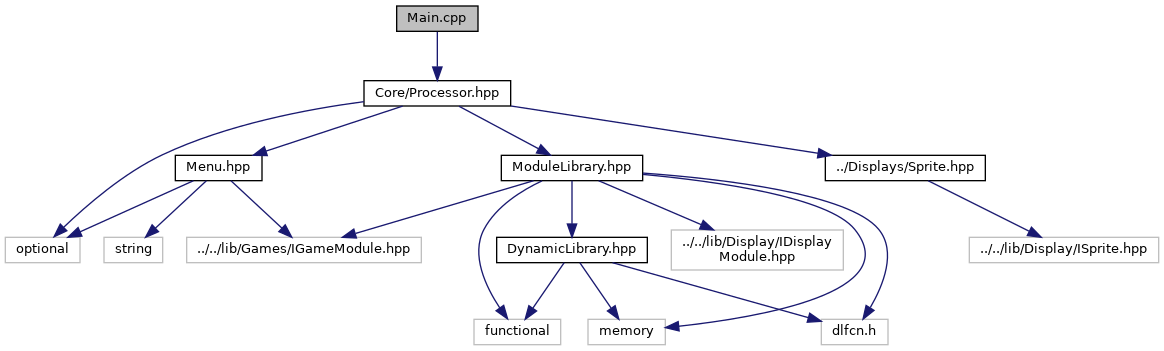
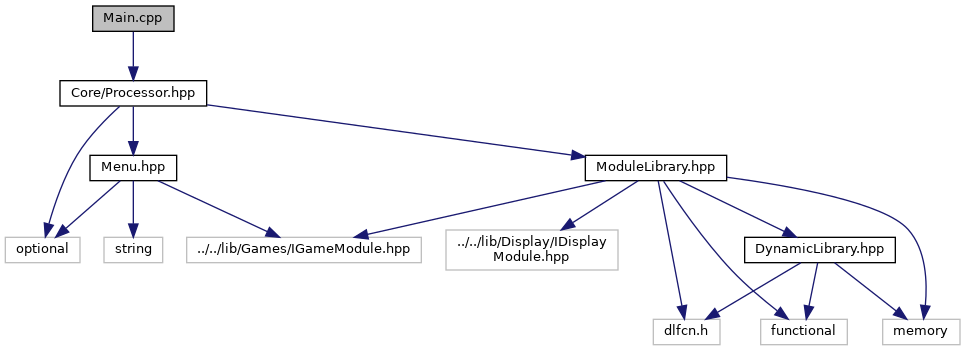
Deploying to gh-pages from @ ThibautHH/Arcade@c06aed20403938ba92cd419e3931bcefb9072a8d 🚀

diff --git a/docs/core/html/de/db1/Processor_8hpp_source.html b/docs/core/html/de/db1/Processor_8hpp_source.html
@@ -85,44 +85,42 @@ $(function() {
 <div class="line"><a name="l00011"></a><span class="lineno">   11</span>&#160;<span class="preprocessor">    #include &lt;optional&gt;</span></div>
 <div class="line"><a name="l00012"></a><span class="lineno">   12</span>&#160; </div>
 <div class="line"><a name="l00013"></a><span class="lineno">   13</span>&#160;<span class="preprocessor">    #include &quot;<a class="code" href="../../db/d31/ModuleLibrary_8hpp.html">ModuleLibrary.hpp</a>&quot;</span></div>
-<div class="line"><a name="l00014"></a><span class="lineno">   14</span>&#160;<span class="preprocessor">    #include &quot;../Displays/Sprite.hpp&quot;</span></div>
-<div class="line"><a name="l00015"></a><span class="lineno">   15</span>&#160;<span class="preprocessor">    #include &quot;<a class="code" href="../../dd/df6/Menu_8hpp.html">Menu.hpp</a>&quot;</span></div>
-<div class="line"><a name="l00016"></a><span class="lineno">   16</span>&#160; </div>
-<div class="line"><a name="l00017"></a><span class="lineno">   17</span>&#160;<span class="keyword">namespace </span><a class="code" href="../../d1/d7d/namespaceArcade_1_1Core.html">Arcade::Core</a> {</div>
-<div class="line"><a name="l00024"></a><span class="lineno"><a class="line" href="../../dd/d20/classArcade_1_1Core_1_1Processor.html">   24</a></span>&#160;    <span class="keyword">class </span><a class="code" href="../../dd/d20/classArcade_1_1Core_1_1Processor.html">Processor</a> {</div>
-<div class="line"><a name="l00025"></a><span class="lineno">   25</span>&#160;        <span class="keyword">public</span>:</div>
-<div class="line"><a name="l00031"></a><span class="lineno">   31</span>&#160;            <a class="code" href="../../dd/d20/classArcade_1_1Core_1_1Processor.html#a3c33c79849419e3fc251f6a17dbb6fd6">Processor</a>(<span class="keyword">const</span> <span class="keywordtype">char</span> *path);</div>
-<div class="line"><a name="l00032"></a><span class="lineno">   32</span>&#160; </div>
-<div class="line"><a name="l00036"></a><span class="lineno">   36</span>&#160;            <span class="keywordtype">void</span> <a class="code" href="../../dd/d20/classArcade_1_1Core_1_1Processor.html#a073f5e9ea6a3557c217d67ab392e5852">run</a>();</div>
-<div class="line"><a name="l00037"></a><span class="lineno">   37</span>&#160; </div>
-<div class="line"><a name="l00038"></a><span class="lineno">   38</span>&#160;        <span class="keyword">private</span>:</div>
-<div class="line"><a name="l00039"></a><span class="lineno">   39</span>&#160;            <span class="keyword">static</span> <a class="codeRef" href="https://en.cppreference.com/w/cpp/container/map.html">std::map&lt;Games::KeyType, int&gt;</a> translateInputs(<a class="codeRef" href="https://en.cppreference.com/w/cpp/container/map.html">std::map&lt;Displays::KeyType, int&gt;</a> inputs);</div>
-<div class="line"><a name="l00040"></a><span class="lineno">   40</span>&#160;            <span class="keyword">static</span> Displays::Vector2i translateVector(Games::Vector2i inputs);</div>
-<div class="line"><a name="l00041"></a><span class="lineno">   41</span>&#160;            <span class="keyword">static</span> <a class="code" href="../../da/d1c/classArcade_1_1Displays_1_1Sprite.html">Displays::Sprite</a> translateSprite(Games::ISprite &amp;inputs);</div>
-<div class="line"><a name="l00042"></a><span class="lineno">   42</span>&#160;            <span class="keyword">static</span> <a class="codeRef" href="https://en.cppreference.com/w/cpp/container/map.html">std::map&lt;Games::Color, Displays::Color&gt;</a> DisplayColors;</div>
-<div class="line"><a name="l00043"></a><span class="lineno">   43</span>&#160;            <span class="keyword">static</span> <a class="codeRef" href="https://en.cppreference.com/w/cpp/container/map.html">std::map&lt;Games::Shape, Displays::Shape&gt;</a> DisplayShapes;</div>
-<div class="line"><a name="l00044"></a><span class="lineno">   44</span>&#160; </div>
-<div class="line"><a name="l00045"></a><span class="lineno">   45</span>&#160;            <span class="keywordtype">void</span> displayGame(Games::IGameModule &amp;game, <span class="keyword">const</span> <a class="codeRef" href="https://en.cppreference.com/w/cpp/container/map.html">std::map&lt;Games::KeyType, int&gt;</a> &amp;inputs);</div>
-<div class="line"><a name="l00046"></a><span class="lineno">   46</span>&#160;            <span class="keywordtype">void</span> displayMenu(<span class="keyword">const</span> <a class="codeRef" href="https://en.cppreference.com/w/cpp/container/map.html">std::map&lt;Arcade::Games::KeyType, int&gt;</a> &amp;inputs);</div>
-<div class="line"><a name="l00047"></a><span class="lineno">   47</span>&#160;            std::optional&lt;Menu&gt; _menu;</div>
-<div class="line"><a name="l00048"></a><span class="lineno">   48</span>&#160;            <a class="code" href="../../dd/df5/classArcade_1_1Core_1_1ModuleLibrary.html">DisplayLibrary</a> _displayModuleLibrary;</div>
-<div class="line"><a name="l00049"></a><span class="lineno">   49</span>&#160;            <a class="code" href="../../dd/df5/classArcade_1_1Core_1_1ModuleLibrary.html">GameLibrary</a> _gameModuleLibrary;</div>
-<div class="line"><a name="l00050"></a><span class="lineno">   50</span>&#160;            <a class="codeRef" href="https://en.cppreference.com/w/cpp/memory/unique_ptr.html">std::unique_ptr&lt;Displays::IDisplayModule&gt;</a> _displayModule;</div>
-<div class="line"><a name="l00051"></a><span class="lineno">   51</span>&#160;            <a class="codeRef" href="https://en.cppreference.com/w/cpp/memory/unique_ptr.html">std::unique_ptr&lt;Games::IGameModule&gt;</a> _gameModule;</div>
-<div class="line"><a name="l00052"></a><span class="lineno">   52</span>&#160;    };</div>
-<div class="line"><a name="l00053"></a><span class="lineno">   53</span>&#160;}</div>
-<div class="line"><a name="l00054"></a><span class="lineno">   54</span>&#160; </div>
-<div class="line"><a name="l00055"></a><span class="lineno">   55</span>&#160;<span class="preprocessor">#endif </span><span class="comment">/* !ARCADE_CORE_PROCESSOR_HPP_ */</span><span class="preprocessor"></span></div>
+<div class="line"><a name="l00014"></a><span class="lineno">   14</span>&#160;<span class="preprocessor">    #include &quot;<a class="code" href="../../dd/df6/Menu_8hpp.html">Menu.hpp</a>&quot;</span></div>
+<div class="line"><a name="l00015"></a><span class="lineno">   15</span>&#160; </div>
+<div class="line"><a name="l00016"></a><span class="lineno">   16</span>&#160;<span class="keyword">namespace </span><a class="code" href="../../d1/d7d/namespaceArcade_1_1Core.html">Arcade::Core</a> {</div>
+<div class="line"><a name="l00023"></a><span class="lineno"><a class="line" href="../../dd/d20/classArcade_1_1Core_1_1Processor.html">   23</a></span>&#160;    <span class="keyword">class </span><a class="code" href="../../dd/d20/classArcade_1_1Core_1_1Processor.html">Processor</a> {</div>
+<div class="line"><a name="l00024"></a><span class="lineno">   24</span>&#160;        <span class="keyword">public</span>:</div>
+<div class="line"><a name="l00030"></a><span class="lineno">   30</span>&#160;            <a class="code" href="../../dd/d20/classArcade_1_1Core_1_1Processor.html#a3c33c79849419e3fc251f6a17dbb6fd6">Processor</a>(<span class="keyword">const</span> <span class="keywordtype">char</span> *path);</div>
+<div class="line"><a name="l00031"></a><span class="lineno">   31</span>&#160; </div>
+<div class="line"><a name="l00035"></a><span class="lineno">   35</span>&#160;            <span class="keywordtype">void</span> <a class="code" href="../../dd/d20/classArcade_1_1Core_1_1Processor.html#a073f5e9ea6a3557c217d67ab392e5852">run</a>();</div>
+<div class="line"><a name="l00036"></a><span class="lineno">   36</span>&#160; </div>
+<div class="line"><a name="l00037"></a><span class="lineno">   37</span>&#160;        <span class="keyword">private</span>:</div>
+<div class="line"><a name="l00038"></a><span class="lineno">   38</span>&#160;            <span class="keyword">static</span> <a class="codeRef" href="https://en.cppreference.com/w/cpp/container/map.html">std::map&lt;Games::KeyType, int&gt;</a> translateInputs(<a class="codeRef" href="https://en.cppreference.com/w/cpp/container/map.html">std::map&lt;Displays::KeyType, int&gt;</a> inputs);</div>
+<div class="line"><a name="l00039"></a><span class="lineno">   39</span>&#160;            <span class="keyword">static</span> Displays::Vector2i translateVector(Games::Vector2i vector);</div>
+<div class="line"><a name="l00040"></a><span class="lineno">   40</span>&#160;            <span class="keyword">static</span> <a class="codeRef" href="https://en.cppreference.com/w/cpp/memory/unique_ptr.html">std::unique_ptr&lt;Arcade::Displays::ISprite&gt;</a> translateSprite(Games::ISprite *sprite);</div>
+<div class="line"><a name="l00041"></a><span class="lineno">   41</span>&#160;            <span class="keyword">static</span> <a class="codeRef" href="https://en.cppreference.com/w/cpp/container/map.html">std::map&lt;Games::Color, Displays::Color&gt;</a> DisplayColors;</div>
+<div class="line"><a name="l00042"></a><span class="lineno">   42</span>&#160;            <span class="keyword">static</span> <a class="codeRef" href="https://en.cppreference.com/w/cpp/container/map.html">std::map&lt;Games::Shape, Displays::Shape&gt;</a> DisplayShapes;</div>
+<div class="line"><a name="l00043"></a><span class="lineno">   43</span>&#160; </div>
+<div class="line"><a name="l00044"></a><span class="lineno">   44</span>&#160;            <span class="keywordtype">void</span> displayGame(Games::IGameModule &amp;game, <span class="keyword">const</span> <a class="codeRef" href="https://en.cppreference.com/w/cpp/container/map.html">std::map&lt;Games::KeyType, int&gt;</a> &amp;inputs);</div>
+<div class="line"><a name="l00045"></a><span class="lineno">   45</span>&#160;            <span class="keywordtype">void</span> displayMenu(<span class="keyword">const</span> <a class="codeRef" href="https://en.cppreference.com/w/cpp/container/map.html">std::map&lt;Arcade::Games::KeyType, int&gt;</a> &amp;inputs);</div>
+<div class="line"><a name="l00046"></a><span class="lineno">   46</span>&#160;            std::optional&lt;Menu&gt; _menu;</div>
+<div class="line"><a name="l00047"></a><span class="lineno">   47</span>&#160;            <a class="code" href="../../dd/df5/classArcade_1_1Core_1_1ModuleLibrary.html">DisplayLibrary</a> _displayModuleLibrary;</div>
+<div class="line"><a name="l00048"></a><span class="lineno">   48</span>&#160;            <a class="code" href="../../dd/df5/classArcade_1_1Core_1_1ModuleLibrary.html">GameLibrary</a> _gameModuleLibrary;</div>
+<div class="line"><a name="l00049"></a><span class="lineno">   49</span>&#160;            <a class="codeRef" href="https://en.cppreference.com/w/cpp/memory/unique_ptr.html">std::unique_ptr&lt;Displays::IDisplayModule&gt;</a> _displayModule;</div>
+<div class="line"><a name="l00050"></a><span class="lineno">   50</span>&#160;            <a class="codeRef" href="https://en.cppreference.com/w/cpp/memory/unique_ptr.html">std::unique_ptr&lt;Games::IGameModule&gt;</a> _gameModule;</div>
+<div class="line"><a name="l00051"></a><span class="lineno">   51</span>&#160;    };</div>
+<div class="line"><a name="l00052"></a><span class="lineno">   52</span>&#160;}</div>
+<div class="line"><a name="l00053"></a><span class="lineno">   53</span>&#160; </div>
+<div class="line"><a name="l00054"></a><span class="lineno">   54</span>&#160;<span class="preprocessor">#endif </span><span class="comment">/* !ARCADE_CORE_PROCESSOR_HPP_ */</span><span class="preprocessor"></span></div>
 <div class="ttc" id="aMenu_8hpp_html"><div class="ttname"><a href="../../dd/df6/Menu_8hpp.html">Menu.hpp</a></div></div>
 <div class="ttc" id="aModuleLibrary_8hpp_html"><div class="ttname"><a href="../../db/d31/ModuleLibrary_8hpp.html">ModuleLibrary.hpp</a></div></div>
 <div class="ttc" id="aclassArcade_1_1Core_1_1ModuleLibrary_html"><div class="ttname"><a href="../../dd/df5/classArcade_1_1Core_1_1ModuleLibrary.html">Arcade::Core::ModuleLibrary&lt; Displays::IDisplayModule, ModuleLibrarySymbols::DisplaysSymbol &gt;</a></div></div>
-<div class="ttc" id="aclassArcade_1_1Core_1_1Processor_html"><div class="ttname"><a href="../../dd/d20/classArcade_1_1Core_1_1Processor.html">Arcade::Core::Processor</a></div><div class="ttdoc">Main class of the Core binary.</div><div class="ttdef"><b>Definition:</b> Processor.hpp:24</div></div>
-<div class="ttc" id="aclassArcade_1_1Core_1_1Processor_html_a073f5e9ea6a3557c217d67ab392e5852"><div class="ttname"><a href="../../dd/d20/classArcade_1_1Core_1_1Processor.html#a073f5e9ea6a3557c217d67ab392e5852">Arcade::Core::Processor::run</a></div><div class="ttdeci">void run()</div><div class="ttdoc">Start the Arcade core program logic.</div><div class="ttdef"><b>Definition:</b> Processor.cpp:128</div></div>
-<div class="ttc" id="aclassArcade_1_1Core_1_1Processor_html_a3c33c79849419e3fc251f6a17dbb6fd6"><div class="ttname"><a href="../../dd/d20/classArcade_1_1Core_1_1Processor.html#a3c33c79849419e3fc251f6a17dbb6fd6">Arcade::Core::Processor::Processor</a></div><div class="ttdeci">Processor(const char *path)</div><div class="ttdoc">Create a new Processor running an initial display module.</div><div class="ttdef"><b>Definition:</b> Processor.cpp:21</div></div>
-<div class="ttc" id="aclassArcade_1_1Displays_1_1Sprite_html"><div class="ttname"><a href="../../da/d1c/classArcade_1_1Displays_1_1Sprite.html">Arcade::Displays::Sprite</a></div><div class="ttdef"><b>Definition:</b> Sprite.hpp:14</div></div>
+<div class="ttc" id="aclassArcade_1_1Core_1_1Processor_html"><div class="ttname"><a href="../../dd/d20/classArcade_1_1Core_1_1Processor.html">Arcade::Core::Processor</a></div><div class="ttdoc">Main class of the Core binary.</div><div class="ttdef"><b>Definition:</b> Processor.hpp:23</div></div>
+<div class="ttc" id="aclassArcade_1_1Core_1_1Processor_html_a073f5e9ea6a3557c217d67ab392e5852"><div class="ttname"><a href="../../dd/d20/classArcade_1_1Core_1_1Processor.html#a073f5e9ea6a3557c217d67ab392e5852">Arcade::Core::Processor::run</a></div><div class="ttdeci">void run()</div><div class="ttdoc">Start the Arcade core program logic.</div><div class="ttdef"><b>Definition:</b> Processor.cpp:132</div></div>
+<div class="ttc" id="aclassArcade_1_1Core_1_1Processor_html_a3c33c79849419e3fc251f6a17dbb6fd6"><div class="ttname"><a href="../../dd/d20/classArcade_1_1Core_1_1Processor.html#a3c33c79849419e3fc251f6a17dbb6fd6">Arcade::Core::Processor::Processor</a></div><div class="ttdeci">Processor(const char *path)</div><div class="ttdoc">Create a new Processor running an initial display module.</div><div class="ttdef"><b>Definition:</b> Processor.cpp:23</div></div>
 <div class="ttc" id="amap_html"><div class="ttname"><a href="https://en.cppreference.com/w/cpp/container/map.html">std::map</a></div></div>
 <div class="ttc" id="anamespaceArcade_1_1Core_html"><div class="ttname"><a href="../../d1/d7d/namespaceArcade_1_1Core.html">Arcade::Core</a></div><div class="ttdef"><b>Definition:</b> DynamicLibrary.hpp:15</div></div>
-<div class="ttc" id="aunique_ptr_html"><div class="ttname"><a href="https://en.cppreference.com/w/cpp/memory/unique_ptr.html">std::unique_ptr&lt; Displays::IDisplayModule &gt;</a></div></div>
+<div class="ttc" id="aunique_ptr_html"><div class="ttname"><a href="https://en.cppreference.com/w/cpp/memory/unique_ptr.html">std::unique_ptr</a></div></div>
 </div><!-- fragment --></div><!-- contents -->
 <!-- start footer part -->
 <hr class="footer"/><address class="footer"><small>

diff --git a/docs/core/html/d6/d69/Processor_8cpp.html b/docs/core/html/d6/d69/Processor_8cpp.html
@@ -74,8 +74,10 @@ $(function() {
 <div class="contents">
 <div class="textblock"><code>#include &lt;algorithm&gt;</code><br />
 <code>#include &lt;chrono&gt;</code><br />
+<code>#include &lt;memory&gt;</code><br />
 <code>#include &lt;optional&gt;</code><br />
 <code>#include &lt;thread&gt;</code><br />
+<code>#include &quot;<a class="el" href="../../da/da5/Sprite_8hpp_source.html">../Displays/Sprite.hpp</a>&quot;</code><br />
 <code>#include &quot;<a class="el" href="../../dd/df6/Menu_8hpp_source.html">Menu.hpp</a>&quot;</code><br />
 <code>#include &quot;<a class="el" href="../../de/db1/Processor_8hpp_source.html">Processor.hpp</a>&quot;</code><br />
 </div><div class="textblock"><div class="dynheader">
@@ -83,23 +85,23 @@ Include dependency graph for Processor.cpp:</div>
 <div class="dyncontent">
 <div class="center"><img src="../../d0/dc1/Processor_8cpp__incl.png" border="0" usemap="#aCore_2Processor_8cpp" alt=""/></div>
 <map name="aCore_2Processor_8cpp" id="aCore_2Processor_8cpp">
-<area shape="rect" title=" " alt="" coords="171,5,317,32"/>
+<area shape="rect" title=" " alt="" coords="798,5,943,32"/>
 <area shape="rect" title=" " alt="" coords="5,80,91,107"/>
 <area shape="rect" title=" " alt="" coords="115,80,181,107"/>
-<area shape="rect" title=" " alt="" coords="181,237,256,263"/>
-<area shape="rect" title=" " alt="" coords="443,80,507,107"/>
-<area shape="rect" href="../../dd/df6/Menu_8hpp.html" title=" " alt="" coords="307,155,394,181"/>
-<area shape="rect" href="../../de/db1/Processor_8hpp.html" title=" " alt="" coords="307,80,419,107"/>
-<area shape="rect" title=" " alt="" coords="280,237,339,263"/>
-<area shape="rect" title=" " alt="" coords="363,237,597,263"/>
-<area shape="rect" href="../../db/d31/ModuleLibrary_8hpp.html" title=" " alt="" coords="615,155,756,181"/>
-<area shape="rect" href="../../da/da5/Sprite_8hpp.html" title=" " alt="" coords="969,155,1129,181"/>
-<area shape="rect" title=" " alt="" coords="876,319,943,345"/>
-<area shape="rect" title=" " alt="" coords="1007,319,1094,345"/>
-<area shape="rect" title=" " alt="" coords="693,319,771,345"/>
-<area shape="rect" title=" " alt="" coords="723,229,895,271"/>
-<area shape="rect" href="../../d4/d71/DynamicLibrary_8hpp.html" title=" " alt="" coords="919,237,1070,263"/>
-<area shape="rect" title=" " alt="" coords="1145,237,1335,263"/>
+<area shape="rect" title=" " alt="" coords="231,319,308,345"/>
+<area shape="rect" title=" " alt="" coords="1123,237,1197,263"/>
+<area shape="rect" title=" " alt="" coords="1068,80,1132,107"/>
+<area shape="rect" href="../../da/da5/Sprite_8hpp.html" title=" " alt="" coords="1156,80,1316,107"/>
+<area shape="rect" href="../../dd/df6/Menu_8hpp.html" title=" " alt="" coords="855,155,942,181"/>
+<area shape="rect" href="../../de/db1/Processor_8hpp.html" title=" " alt="" coords="861,80,973,107"/>
+<area shape="rect" title=" " alt="" coords="1141,155,1331,181"/>
+<area shape="rect" title=" " alt="" coords="1040,237,1099,263"/>
+<area shape="rect" title=" " alt="" coords="781,237,1016,263"/>
+<area shape="rect" href="../../db/d31/ModuleLibrary_8hpp.html" title=" " alt="" coords="560,155,701,181"/>
+<area shape="rect" title=" " alt="" coords="489,319,556,345"/>
+<area shape="rect" title=" " alt="" coords="643,319,730,345"/>
+<area shape="rect" title=" " alt="" coords="307,229,479,271"/>
+<area shape="rect" href="../../d4/d71/DynamicLibrary_8hpp.html" title=" " alt="" coords="555,237,706,263"/>
 </map>
 </div>
 </div></div><!-- contents -->

diff --git a/docs/core/html/de/db1/Processor_8hpp.html b/docs/core/html/de/db1/Processor_8hpp.html
@@ -77,25 +77,22 @@ $(function() {
 <div class="contents">
 <div class="textblock"><code>#include &lt;optional&gt;</code><br />
 <code>#include &quot;<a class="el" href="../../db/d31/ModuleLibrary_8hpp_source.html">ModuleLibrary.hpp</a>&quot;</code><br />
-<code>#include &quot;<a class="el" href="../../da/da5/Sprite_8hpp_source.html">../Displays/Sprite.hpp</a>&quot;</code><br />
 <code>#include &quot;<a class="el" href="../../dd/df6/Menu_8hpp_source.html">Menu.hpp</a>&quot;</code><br />
 </div><div class="textblock"><div class="dynheader">
 Include dependency graph for Processor.hpp:</div>
 <div class="dyncontent">
 <div class="center"><img src="../../db/d8c/Processor_8hpp__incl.png" border="0" usemap="#aCore_2Processor_8hpp" alt=""/></div>
 <map name="aCore_2Processor_8hpp" id="aCore_2Processor_8hpp">
-<area shape="rect" title=" " alt="" coords="364,5,511,32"/>
+<area shape="rect" title=" " alt="" coords="60,5,207,32"/>
 <area shape="rect" title=" " alt="" coords="5,162,80,189"/>
-<area shape="rect" href="../../db/d31/ModuleLibrary_8hpp.html" title=" " alt="" coords="501,80,643,107"/>
-<area shape="rect" href="../../da/da5/Sprite_8hpp.html" title=" " alt="" coords="825,80,985,107"/>
-<area shape="rect" href="../../dd/df6/Menu_8hpp.html" title=" " alt="" coords="175,80,262,107"/>
-<area shape="rect" title=" " alt="" coords="821,244,888,271"/>
-<area shape="rect" title=" " alt="" coords="474,244,561,271"/>
-<area shape="rect" title=" " alt="" coords="588,244,665,271"/>
-<area shape="rect" title=" " alt="" coords="671,155,843,196"/>
+<area shape="rect" href="../../db/d31/ModuleLibrary_8hpp.html" title=" " alt="" coords="585,80,727,107"/>
+<area shape="rect" href="../../dd/df6/Menu_8hpp.html" title=" " alt="" coords="90,80,177,107"/>
+<area shape="rect" title=" " alt="" coords="653,244,720,271"/>
+<area shape="rect" title=" " alt="" coords="761,244,847,271"/>
+<area shape="rect" title=" " alt="" coords="883,244,960,271"/>
+<area shape="rect" title=" " alt="" coords="446,155,618,196"/>
 <area shape="rect" title=" " alt="" coords="187,162,421,189"/>
-<area shape="rect" href="../../d4/d71/DynamicLibrary_8hpp.html" title=" " alt="" coords="497,162,647,189"/>
-<area shape="rect" title=" " alt="" coords="969,162,1159,189"/>
+<area shape="rect" href="../../d4/d71/DynamicLibrary_8hpp.html" title=" " alt="" coords="745,162,895,189"/>
 <area shape="rect" title=" " alt="" coords="104,162,163,189"/>
 </map>
 </div>

diff --git a/docs/core/html/d5/de0/Main_8cpp.html b/docs/core/html/d5/de0/Main_8cpp.html
@@ -76,19 +76,17 @@ Include dependency graph for Main.cpp:</div>
 <div class="dyncontent">
 <div class="center"><img src="../../d0/d1c/Main_8cpp__incl.png" border="0" usemap="#aMain_8cpp" alt=""/></div>
 <map name="aMain_8cpp" id="aMain_8cpp">
-<area shape="rect" title=" " alt="" coords="397,5,478,32"/>
-<area shape="rect" href="../../de/db1/Processor_8hpp.html" title=" " alt="" coords="364,80,511,107"/>
+<area shape="rect" title=" " alt="" coords="93,5,174,32"/>
+<area shape="rect" href="../../de/db1/Processor_8hpp.html" title=" " alt="" coords="60,80,207,107"/>
 <area shape="rect" title=" " alt="" coords="5,237,80,263"/>
-<area shape="rect" href="../../db/d31/ModuleLibrary_8hpp.html" title=" " alt="" coords="501,155,643,181"/>
-<area shape="rect" href="../../da/da5/Sprite_8hpp.html" title=" " alt="" coords="825,155,985,181"/>
-<area shape="rect" href="../../dd/df6/Menu_8hpp.html" title=" " alt="" coords="175,155,262,181"/>
-<area shape="rect" title=" " alt="" coords="821,319,888,345"/>
-<area shape="rect" title=" " alt="" coords="474,319,561,345"/>
-<area shape="rect" title=" " alt="" coords="588,319,665,345"/>
-<area shape="rect" title=" " alt="" coords="671,229,843,271"/>
+<area shape="rect" href="../../db/d31/ModuleLibrary_8hpp.html" title=" " alt="" coords="585,155,727,181"/>
+<area shape="rect" href="../../dd/df6/Menu_8hpp.html" title=" " alt="" coords="90,155,177,181"/>
+<area shape="rect" title=" " alt="" coords="653,319,720,345"/>
+<area shape="rect" title=" " alt="" coords="761,319,847,345"/>
+<area shape="rect" title=" " alt="" coords="883,319,960,345"/>
+<area shape="rect" title=" " alt="" coords="446,229,618,271"/>
 <area shape="rect" title=" " alt="" coords="187,237,421,263"/>
-<area shape="rect" href="../../d4/d71/DynamicLibrary_8hpp.html" title=" " alt="" coords="497,237,647,263"/>
-<area shape="rect" title=" " alt="" coords="969,237,1159,263"/>
+<area shape="rect" href="../../d4/d71/DynamicLibrary_8hpp.html" title=" " alt="" coords="745,237,895,263"/>
 <area shape="rect" title=" " alt="" coords="104,237,163,263"/>
 </map>
 </div>

diff --git a/docs/core/html/dir_000001_000002.html b/docs/core/html/dir_000001_000002.html
@@ -68,7 +68,7 @@ $(function() {
 </div>
 </div><!-- top -->
 <div class="contents">
-<h3>Core &rarr; Displays Relation</h3><table class="dirtab"><tr class="dirtab"><th class="dirtab">File in Core</th><th class="dirtab">Includes file in Displays</th></tr><tr class="dirtab"><td class="dirtab"><a class="el" href="de/db1/Processor_8hpp.html">Processor.hpp</a></td><td class="dirtab"><a class="el" href="da/da5/Sprite_8hpp.html">Sprite.hpp</a></td></tr></table></div><!-- contents -->
+<h3>Core &rarr; Displays Relation</h3><table class="dirtab"><tr class="dirtab"><th class="dirtab">File in Core</th><th class="dirtab">Includes file in Displays</th></tr><tr class="dirtab"><td class="dirtab"><a class="el" href="d6/d69/Processor_8cpp.html">Processor.cpp</a></td><td class="dirtab"><a class="el" href="da/da5/Sprite_8hpp.html">Sprite.hpp</a></td></tr></table></div><!-- contents -->
 <!-- start footer part -->
 <hr class="footer"/><address class="footer"><small>
 Generated by&#160;<a href="https://www.doxygen.org/index.html"><img class="footer" src="doxygen.svg" width="104" height="31" alt="doxygen"/></a> 1.9.1

diff --git a/docs/core/html/da/da5/Sprite_8hpp.html b/docs/core/html/da/da5/Sprite_8hpp.html
@@ -90,10 +90,8 @@ This graph shows which files directly or indirectly include this file:</div>
 <div class="dyncontent">
 <div class="center"><img src="../../d3/ddd/Sprite_8hpp__dep__incl.png" border="0" usemap="#aDisplays_2Sprite_8hppdep" alt=""/></div>
 <map name="aDisplays_2Sprite_8hppdep" id="aDisplays_2Sprite_8hppdep">
-<area shape="rect" title=" " alt="" coords="72,5,220,32"/>
-<area shape="rect" href="../../de/db1/Processor_8hpp.html" title=" " alt="" coords="73,80,219,107"/>
-<area shape="rect" href="../../d6/d69/Processor_8cpp.html" title=" " alt="" coords="5,155,151,181"/>
-<area shape="rect" href="../../d5/de0/Main_8cpp.html" title=" " alt="" coords="175,155,256,181"/>
+<area shape="rect" title=" " alt="" coords="5,5,153,32"/>
+<area shape="rect" href="../../d6/d69/Processor_8cpp.html" title=" " alt="" coords="7,80,152,107"/>
 </map>
 </div>
 </div>
